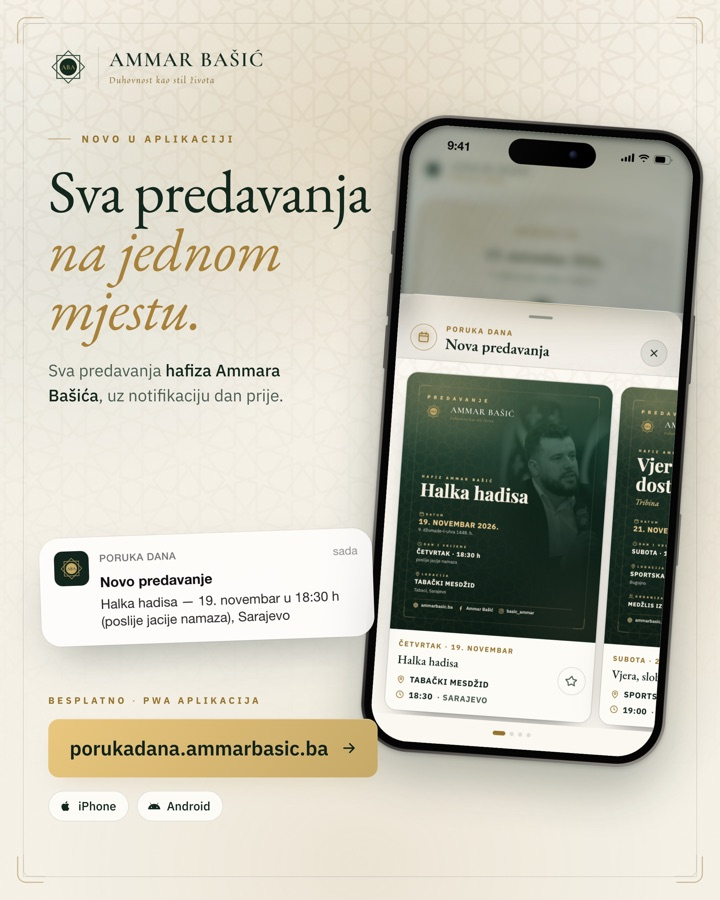
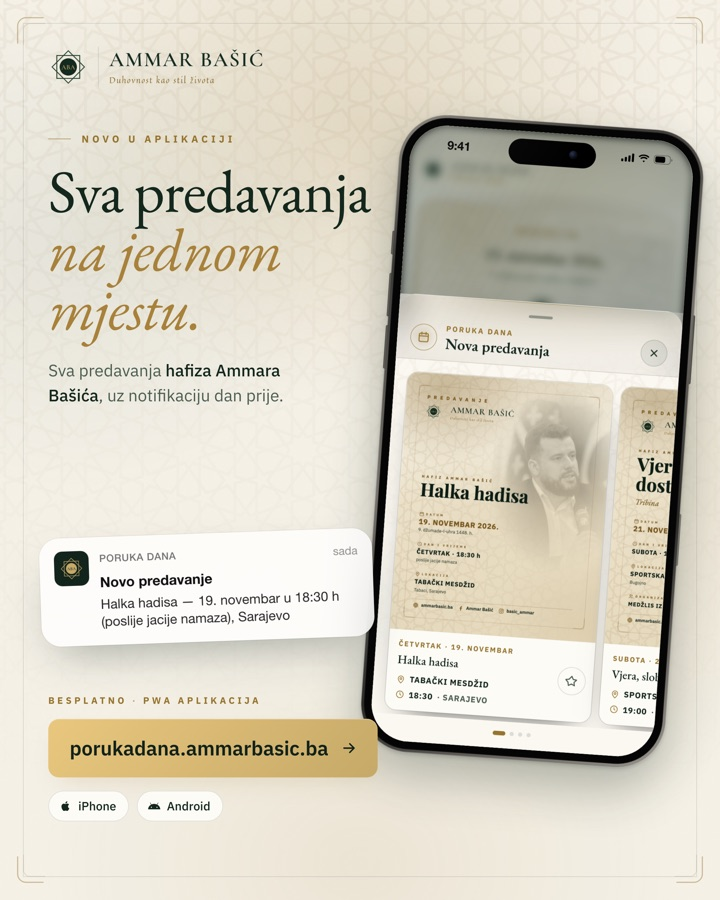
Grafike: u bijeloj verziji predavanja i plakati svijetli (krem)

Changed region(s): [[0.5194, 0.4044, 0.9472, 0.7467]]

diff --git a/public/_promo/index.html b/public/_promo/index.html
@@ -204,7 +204,9 @@
      šalje kad se predavanje doda (sadrzajNovog u api/_lib/obavijesti.js). */
   let predavanja = [];
   if (g === 'predavanja') {
-    predavanja = await (await fetch('/_promo/predavanja.json')).json();
+    // u bijeloj grafici i plakati su svijetli (stil „krem“), da ne strše tamni
+    predavanja = (await (await fetch('/_promo/predavanja.json')).json())
+      .map(p => tema === 'svijetla' ? { ...p, stil: 'krem' } : p);
     Object.entries({
       'pd.predavanjaLokalno': predavanja, 'pd.predavanjaVidjena': [],
       'pd.predavanjaPracena': [], 'pd.predavanjaObavijesti': true, 'pd.predavanjaGrad': '',

diff --git a/public/grafike/index.html b/public/grafike/index.html
@@ -119,7 +119,7 @@
 
 <script>
   /* oznaka izvoza — scripts/promo.sh je mijenja, da preglednik ne drži stare slike */
-  const V = '202611150948';
+  const V = '202611151010';
   // ime fajla: skup (poruka-dana, predavanja) · format · verzija
   const ime = (k, t) => `${k.closest('.skup').dataset.g}-${k.dataset.f}-${t}`;
   let tema = 'zelena';
